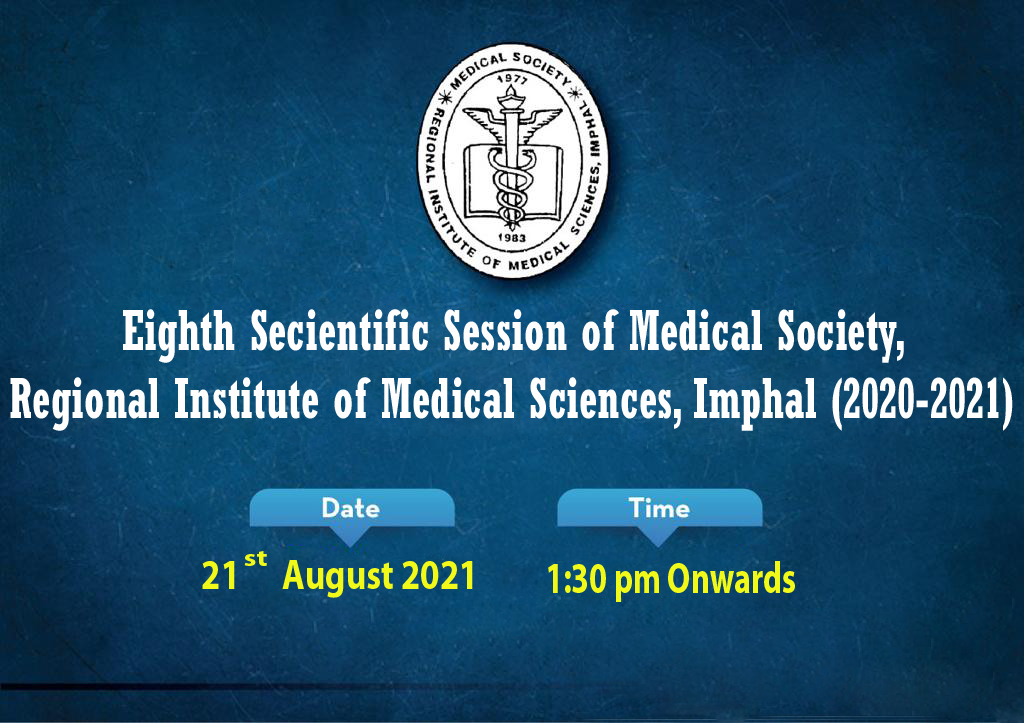
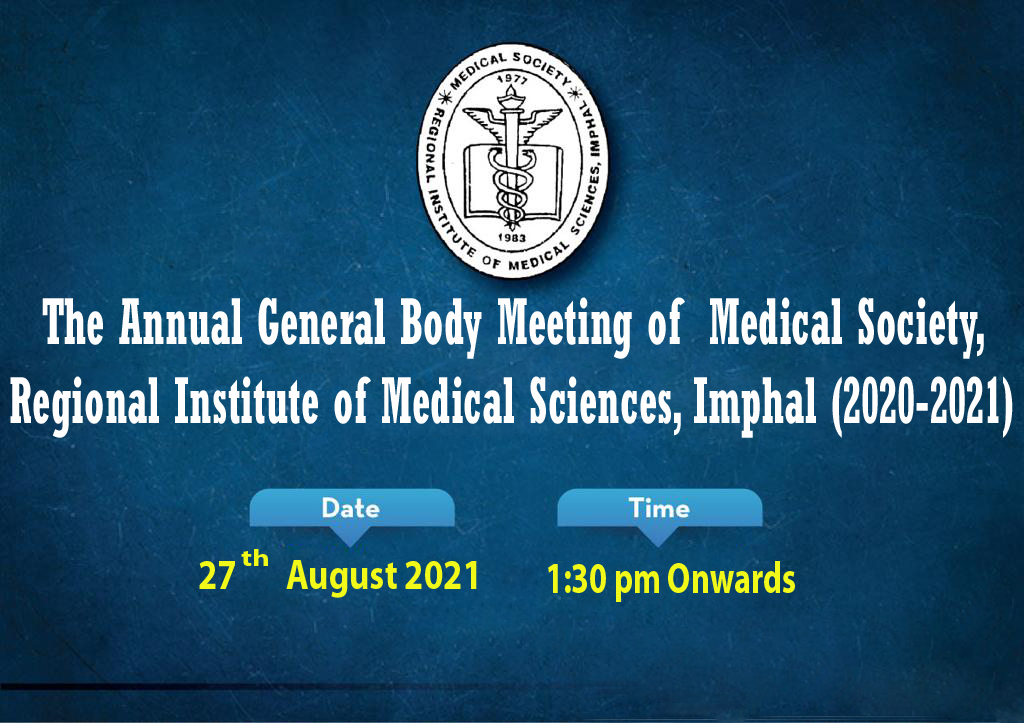
general body meeeting
last oina general body meeting

Changed region(s): [[0.0312, 0.3956, 1.0, 0.6086], [0.0, 0.5477, 0.3438, 0.6086], [0.1875, 0.7607, 0.4688, 0.8216]]

diff --git a/index.html b/index.html
@@ -17,10 +17,6 @@
     </div><br/>
     <div class="col-md-12">
 	     <img src="./2nd page copy.jpg" alt="Pos Isacon" class="d-block w-100">
-         </div><br/>
-        <div class="col-md-12">
-      <img src="./3 page.jpg" alt="Pos Isacon" class="d-block w-100">
-    </div>
   </div>
 <script src="https://code.jquery.com/jquery-3.4.1.slim.min.js" integrity="sha384-J6qa4849blE2+poT4WnyKhv5vZF5SrPo0iEjwBvKU7imGFAV0wwj1yYfoRSJoZ+n" crossorigin="anonymous"></script>
 <script src="https://cdn.jsdelivr.net/npm/popper.js@1.16.0/dist/umd/popper.min.js" integrity="sha384-Q6E9RHvbIyZFJoft+2mJbHaEWldlvI9IOYy5n3zV9zzTtmI3UksdQRVvoxMfooAo" crossorigin="anonymous"></script>
